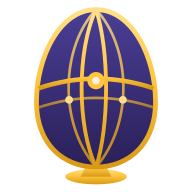
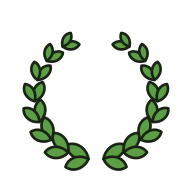
Add files via upload

diff --git a/index.html b/index.html
@@ -1,4 +1,3 @@
-
 <!DOCTYPE html>
 <html lang="en">
 <head>
@@ -18,15 +17,26 @@
   --indigo:#171233; --pit:#100C26; --panel:#1F1941; --panel2:#28214F;
   --yolk:#FFC53D; --yolk-deep:#E8A916; --coral:#FF6B5E; --mint:#7FE8C3;
   --cream:#FFF3DC; --cream-dim:#CFC5AC; --ink:#2B2140; --ink-soft:#5A4E78;
+  --line:#2E2660; --line2:#3A3170; --dash:#322A63;
+  --chrome:rgba(16,12,38,.88);
+  --glow1:#2A2058; --glow2:rgba(255,107,94,.10);
   --mono:ui-monospace,'SF Mono',Menlo,Consolas,monospace;
+}
+html[data-theme="light"]{
+  --indigo:#F4ECD9; --pit:#EDE3CC; --panel:#FDF8EC; --panel2:#F1E7CF;
+  --yolk:#C98A12; --yolk-deep:#A96F05; --coral:#D9503F; --mint:#2E8F63;
+  --cream:#332A20; --cream-dim:#8A7C63; --ink:#F6EFDF; --ink-soft:#C9B99B;
+  --line:#DDD0B2; --line2:#CBBC98; --dash:#D8CAA8;
+  --chrome:rgba(244,236,217,.9);
+  --glow1:#FFF7E2; --glow2:rgba(201,138,18,.08);
 }
 *{box-sizing:border-box;margin:0;padding:0}
 html{background:var(--pit)}
 body{
   font-family:'Outfit',system-ui,sans-serif;color:var(--cream);
   background:
-    radial-gradient(1200px 500px at 50% -10%, #2A2058 0%, transparent 60%),
-    radial-gradient(700px 380px at 85% 8%, rgba(255,107,94,.10), transparent 65%),
+    radial-gradient(1200px 500px at 50% -10%, var(--glow1) 0%, transparent 60%),
+    radial-gradient(700px 380px at 85% 8%, var(--glow2), transparent 65%),
     var(--indigo);
   min-height:100vh;font-size:16px;line-height:1.45;
 }
@@ -37,37 +47,37 @@ input,select{font-family:inherit;font-size:16px}
 .wrap{max-width:680px;margin:0 auto;padding:0 16px 96px}
 
 /* ---------- top bar ---------- */
-header{position:sticky;top:0;z-index:50;background:rgba(16,12,38,.88);backdrop-filter:blur(10px);border-bottom:1px solid #2E2660}
+header{position:sticky;top:0;z-index:50;background:var(--chrome);backdrop-filter:blur(10px);border-bottom:1px solid var(--line)}
 .bar{max-width:680px;margin:0 auto;display:flex;align-items:center;gap:12px;padding:12px 16px}
-.logo{font-family:'Fraunces',serif;font-weight:800;font-size:1.35rem;letter-spacing:.5px;color:var(--yolk);font-variation-settings:'SOFT' 100,'WONK' 1}
+.logo{display:flex;align-items:center;gap:8px;font-family:'Fraunces',serif;font-weight:800;font-size:1.35rem;letter-spacing:.5px;color:var(--yolk);font-variation-settings:'SOFT' 100,'WONK' 1}
 .logo span{color:var(--cream);font-weight:500;font-style:italic}
 .who{margin-left:auto;font-size:.85rem;color:var(--cream-dim)}
 .who b{color:var(--cream)}
 .linkbtn{background:none;border:none;color:var(--coral);font-size:.8rem;text-decoration:underline;padding:2px 4px}
 
 /* ---------- tabs ---------- */
-nav.tabs{position:fixed;bottom:0;left:0;right:0;z-index:50;display:flex;background:rgba(16,12,38,.94);backdrop-filter:blur(10px);border-top:1px solid #2E2660;padding-bottom:env(safe-area-inset-bottom)}
+nav.tabs{position:fixed;bottom:0;left:0;right:0;z-index:50;display:flex;background:var(--chrome);backdrop-filter:blur(10px);border-top:1px solid var(--line);padding-bottom:env(safe-area-inset-bottom)}
 nav.tabs button{flex:1;background:none;border:none;color:var(--cream-dim);padding:13px 4px 11px;font-size:.85rem;font-weight:600;letter-spacing:.4px;border-top:2px solid transparent}
 nav.tabs button.on{color:var(--yolk);border-top-color:var(--yolk)}
 
 /* ---------- cards / panels ---------- */
-.panel{background:var(--panel);border:1px solid #2E2660;border-radius:14px;padding:16px;margin:14px 0}
+.panel{background:var(--panel);border:1px solid var(--line);border-radius:14px;padding:16px;margin:14px 0}
 .panel h2{font-size:1.25rem;margin-bottom:8px}
 .muted{color:var(--cream-dim);font-size:.88rem}
 .row{display:flex;align-items:center;gap:10px;flex-wrap:wrap}
-.pill{display:inline-block;font-family:var(--mono);font-size:.75rem;padding:3px 10px;border-radius:999px;border:1px solid #3A3170;color:var(--cream-dim)}
+.pill{display:inline-block;font-family:var(--mono);font-size:.75rem;padding:3px 10px;border-radius:999px;border:1px solid var(--line2);color:var(--cream-dim)}
 .pill.live{border-color:var(--coral);color:var(--coral);animation:pulse 1.6s infinite}
 .pill.open{border-color:var(--mint);color:var(--mint)}
 .pill.locked{border-color:var(--yolk);color:var(--yolk)}
 .pill.final{border-color:#6C61A8;color:#9A8FD6}
 @keyframes pulse{0%,100%{opacity:1}50%{opacity:.45}}
-.showrow{display:flex;gap:12px;align-items:center;padding:13px 4px;border-bottom:1px dashed #322A63}
+.showrow{display:flex;gap:12px;align-items:center;padding:13px 4px;border-bottom:1px dashed var(--dash)}
 .showrow:last-child{border-bottom:none}
 .showrow .date{font-family:var(--mono);color:var(--yolk);font-size:.85rem;min-width:74px}
 .showrow .v{flex:1;min-width:0}
 .showrow .v .venue{font-weight:600}
 .showrow .v .loc{font-size:.82rem;color:var(--cream-dim)}
-.showrow button{background:var(--panel2);color:var(--cream);border:1px solid #3A3170;border-radius:10px;padding:8px 12px;font-size:.82rem;font-weight:600}
+.showrow button{background:var(--panel2);color:var(--cream);border:1px solid var(--line2);border-radius:10px;padding:8px 12px;font-size:.82rem;font-weight:600}
 
 /* ---------- the setlist card (signature) ---------- */
 .sheet{position:relative;background:var(--cream);color:var(--ink);border-radius:6px;padding:26px 22px 22px;margin:22px 6px;box-shadow:0 14px 40px rgba(0,0,0,.5), 0 2px 0 rgba(0,0,0,.2);transform:rotate(-.5deg)}
@@ -88,14 +98,14 @@ nav.tabs button.on{color:var(--yolk);border-top-color:var(--yolk)}
 
 /* ---------- leaderboard ---------- */
 .lb{width:100%;border-collapse:collapse}
-.lb td,.lb th{padding:10px 8px;text-align:left;border-bottom:1px dashed #322A63}
+.lb td,.lb th{padding:10px 8px;text-align:left;border-bottom:1px dashed var(--dash)}
 .lb th{font-size:.72rem;text-transform:uppercase;letter-spacing:1px;color:var(--cream-dim);font-weight:600}
 .lb .rank{font-family:var(--mono);color:var(--yolk);width:36px}
 .lb .pts{font-family:var(--mono);text-align:right;font-size:1.05rem}
 .lb tr.me td{background:rgba(255,197,61,.07)}
 
 /* ---------- setlist + results ---------- */
-.songrow{display:flex;gap:10px;padding:7px 2px;border-bottom:1px dashed #2C2459;align-items:baseline}
+.songrow{display:flex;gap:10px;padding:7px 2px;border-bottom:1px dashed var(--dash);align-items:baseline}
 .songrow .pos{font-family:var(--mono);font-size:.72rem;color:var(--cream-dim);min-width:44px}
 .songrow.hitmine{background:linear-gradient(90deg,rgba(255,197,61,.14),transparent);border-radius:6px}
 .songrow.hitmine .name{color:var(--yolk);font-weight:700}
@@ -108,14 +118,14 @@ nav.tabs button.on{color:var(--yolk);border-top-color:var(--yolk)}
 /* ---------- forms / auth / admin ---------- */
 .field{margin:12px 0}
 .field label{display:block;font-size:.8rem;color:var(--cream-dim);margin-bottom:5px;letter-spacing:.4px}
-.field input,.field select{width:100%;background:var(--pit);border:1px solid #3A3170;border-radius:10px;color:var(--cream);padding:11px 12px}
+.field input,.field select{width:100%;background:var(--pit);border:1px solid var(--line2);border-radius:10px;color:var(--cream);padding:11px 12px}
 .btn{background:var(--yolk);color:#221A0A;border:none;border-radius:10px;padding:12px 18px;font-weight:700;font-size:.95rem}
-.btn.ghost{background:var(--panel2);color:var(--cream);border:1px solid #3A3170}
+.btn.ghost{background:var(--panel2);color:var(--cream);border:1px solid var(--line2)}
 .btn.small{padding:7px 12px;font-size:.8rem}
 .btn:disabled{opacity:.5}
 .err{color:var(--coral);font-size:.85rem;margin-top:8px;min-height:1.2em}
 .admin-slot{display:flex;gap:8px;margin:6px 0;flex-wrap:wrap}
-.admin-slot input,.admin-slot select{background:var(--pit);border:1px solid #3A3170;border-radius:8px;color:var(--cream);padding:8px 10px;font-size:.85rem}
+.admin-slot input,.admin-slot select{background:var(--pit);border:1px solid var(--line2);border-radius:8px;color:var(--cream);padding:8px 10px;font-size:.85rem}
 .admin-slot select.k,.admin-slot input.k{flex:1 1 130px;min-width:0}.admin-slot input.p{width:64px;font-family:var(--mono)}
 .grid2{display:grid;grid-template-columns:1fr 1fr;gap:10px}
 
@@ -129,15 +139,16 @@ nav.tabs button.on{color:var(--yolk);border-top-color:var(--yolk)}
 .acc-list{position:absolute;top:100%;left:0;right:0;background:var(--cream);border-radius:0 0 10px 10px;box-shadow:0 12px 28px rgba(0,0,0,.35);z-index:30;max-height:210px;overflow:auto}
 .acc-list div{padding:9px 12px;color:var(--ink);font-size:.92rem;border-bottom:1px solid rgba(43,33,64,.08);cursor:pointer}
 .acc-list div small{color:var(--ink-soft);font-family:var(--mono);float:right}
-.acc-list div:hover,.acc-list div.sel{background:var(--yolk)}
+.acc-list div:hover,.acc-list div.sel{background:var(--yolk);color:#221A0A}
 .hidden{display:none!important}
 </style>
 </head>
 <body>
 
 <header><div class="bar">
-  <div class="logo">Fantasy Eggy</div>
+  <div class="logo"><svg viewBox="0 0 100 100" style="width:28px;height:28px;flex:none"><path d="M0,0 C4.0,-4.3 10.5,-4.3 13.5,0 C10.5,4.3 4.0,4.3 0,0 Z" fill="#5B9E45" stroke="#1A2415" stroke-width="1.4" stroke-linejoin="round" transform="translate(53.9,82.8) rotate(-33)"/><path d="M0,0 C3.8,-4.1 9.9,-4.1 12.7,0 C9.9,4.1 3.8,4.1 0,0 Z" fill="#5B9E45" stroke="#1A2415" stroke-width="1.4" stroke-linejoin="round" transform="translate(53.9,82.8) rotate(19)"/><path d="M0,0 C3.8,-4.1 10.0,-4.1 12.8,0 C10.0,4.1 3.8,4.1 0,0 Z" fill="#5B9E45" stroke="#1A2415" stroke-width="1.4" stroke-linejoin="round" transform="translate(64.5,79.5) rotate(-53)"/><path d="M0,0 C3.6,-3.9 9.4,-3.9 12.1,0 C9.4,3.9 3.6,3.9 0,0 Z" fill="#5B9E45" stroke="#1A2415" stroke-width="1.4" stroke-linejoin="round" transform="translate(64.5,79.5) rotate(-1)"/><path d="M0,0 C3.6,-3.9 9.5,-3.9 12.2,0 C9.5,3.9 3.6,3.9 0,0 Z" fill="#5B9E45" stroke="#1A2415" stroke-width="1.4" stroke-linejoin="round" transform="translate(73.4,72.8) rotate(-73)"/><path d="M0,0 C3.4,-3.7 8.9,-3.7 11.4,0 C8.9,3.7 3.4,3.7 0,0 Z" fill="#5B9E45" stroke="#1A2415" stroke-width="1.4" stroke-linejoin="round" transform="translate(73.4,72.8) rotate(-21)"/><path d="M0,0 C3.4,-3.7 9.0,-3.7 11.5,0 C9.0,3.7 3.4,3.7 0,0 Z" fill="#5B9E45" stroke="#1A2415" stroke-width="1.4" stroke-linejoin="round" transform="translate(79.5,63.5) rotate(-93)"/><path d="M0,0 C3.2,-3.5 8.4,-3.5 10.8,0 C8.4,3.5 3.2,3.5 0,0 Z" fill="#5B9E45" stroke="#1A2415" stroke-width="1.4" stroke-linejoin="round" transform="translate(79.5,63.5) rotate(-41)"/><path d="M0,0 C3.2,-3.5 8.4,-3.5 10.8,0 C8.4,3.5 3.2,3.5 0,0 Z" fill="#5B9E45" stroke="#1A2415" stroke-width="1.4" stroke-linejoin="round" transform="translate(82.0,52.7) rotate(-113)"/><path d="M0,0 C3.0,-3.2 7.9,-3.2 10.2,0 C7.9,3.2 3.0,3.2 0,0 Z" fill="#5B9E45" stroke="#1A2415" stroke-width="1.4" stroke-linejoin="round" transform="translate(82.0,52.7) rotate(-61)"/><path d="M0,0 C3.0,-3.2 7.9,-3.2 10.1,0 C7.9,3.2 3.0,3.2 0,0 Z" fill="#5B9E45" stroke="#1A2415" stroke-width="1.4" stroke-linejoin="round" transform="translate(80.6,41.6) rotate(-133)"/><path d="M0,0 C2.9,-3.0 7.4,-3.0 9.5,0 C7.4,3.0 2.9,3.0 0,0 Z" fill="#5B9E45" stroke="#1A2415" stroke-width="1.4" stroke-linejoin="round" transform="translate(80.6,41.6) rotate(-81)"/><path d="M0,0 C2.8,-3.0 7.4,-3.0 9.4,0 C7.4,3.0 2.8,3.0 0,0 Z" fill="#5B9E45" stroke="#1A2415" stroke-width="1.4" stroke-linejoin="round" transform="translate(75.6,31.7) rotate(-153)"/><path d="M0,0 C2.7,-2.8 6.9,-2.8 8.9,0 C6.9,2.8 2.7,2.8 0,0 Z" fill="#5B9E45" stroke="#1A2415" stroke-width="1.4" stroke-linejoin="round" transform="translate(75.6,31.7) rotate(-101)"/><path d="M0,0 C2.6,-2.8 6.8,-2.8 8.8,0 C6.8,2.8 2.6,2.8 0,0 Z" fill="#5B9E45" stroke="#1A2415" stroke-width="1.4" stroke-linejoin="round" transform="translate(67.4,24.2) rotate(-173)"/><path d="M0,0 C2.5,-2.6 6.4,-2.6 8.2,0 C6.4,2.6 2.5,2.6 0,0 Z" fill="#5B9E45" stroke="#1A2415" stroke-width="1.4" stroke-linejoin="round" transform="translate(67.4,24.2) rotate(-121)"/><path d="M0,0 C4.0,-4.3 10.5,-4.3 13.5,0 C10.5,4.3 4.0,4.3 0,0 Z" fill="#5B9E45" stroke="#1A2415" stroke-width="1.4" stroke-linejoin="round" transform="translate(46.1,82.8) rotate(213)"/><path d="M0,0 C3.8,-4.1 9.9,-4.1 12.7,0 C9.9,4.1 3.8,4.1 0,0 Z" fill="#5B9E45" stroke="#1A2415" stroke-width="1.4" stroke-linejoin="round" transform="translate(46.1,82.8) rotate(161)"/><path d="M0,0 C3.8,-4.1 10.0,-4.1 12.8,0 C10.0,4.1 3.8,4.1 0,0 Z" fill="#5B9E45" stroke="#1A2415" stroke-width="1.4" stroke-linejoin="round" transform="translate(35.5,79.5) rotate(233)"/><path d="M0,0 C3.6,-3.9 9.4,-3.9 12.1,0 C9.4,3.9 3.6,3.9 0,0 Z" fill="#5B9E45" stroke="#1A2415" stroke-width="1.4" stroke-linejoin="round" transform="translate(35.5,79.5) rotate(181)"/><path d="M0,0 C3.6,-3.9 9.5,-3.9 12.2,0 C9.5,3.9 3.6,3.9 0,0 Z" fill="#5B9E45" stroke="#1A2415" stroke-width="1.4" stroke-linejoin="round" transform="translate(26.6,72.8) rotate(253)"/><path d="M0,0 C3.4,-3.7 8.9,-3.7 11.4,0 C8.9,3.7 3.4,3.7 0,0 Z" fill="#5B9E45" stroke="#1A2415" stroke-width="1.4" stroke-linejoin="round" transform="translate(26.6,72.8) rotate(201)"/><path d="M0,0 C3.4,-3.7 9.0,-3.7 11.5,0 C9.0,3.7 3.4,3.7 0,0 Z" fill="#5B9E45" stroke="#1A2415" stroke-width="1.4" stroke-linejoin="round" transform="translate(20.5,63.5) rotate(273)"/><path d="M0,0 C3.2,-3.5 8.4,-3.5 10.8,0 C8.4,3.5 3.2,3.5 0,0 Z" fill="#5B9E45" stroke="#1A2415" stroke-width="1.4" stroke-linejoin="round" transform="translate(20.5,63.5) rotate(221)"/><path d="M0,0 C3.2,-3.5 8.4,-3.5 10.8,0 C8.4,3.5 3.2,3.5 0,0 Z" fill="#5B9E45" stroke="#1A2415" stroke-width="1.4" stroke-linejoin="round" transform="translate(18.0,52.7) rotate(293)"/><path d="M0,0 C3.0,-3.2 7.9,-3.2 10.2,0 C7.9,3.2 3.0,3.2 0,0 Z" fill="#5B9E45" stroke="#1A2415" stroke-width="1.4" stroke-linejoin="round" transform="translate(18.0,52.7) rotate(241)"/><path d="M0,0 C3.0,-3.2 7.9,-3.2 10.1,0 C7.9,3.2 3.0,3.2 0,0 Z" fill="#5B9E45" stroke="#1A2415" stroke-width="1.4" stroke-linejoin="round" transform="translate(19.4,41.6) rotate(313)"/><path d="M0,0 C2.9,-3.0 7.4,-3.0 9.5,0 C7.4,3.0 2.9,3.0 0,0 Z" fill="#5B9E45" stroke="#1A2415" stroke-width="1.4" stroke-linejoin="round" transform="translate(19.4,41.6) rotate(261)"/><path d="M0,0 C2.8,-3.0 7.4,-3.0 9.4,0 C7.4,3.0 2.8,3.0 0,0 Z" fill="#5B9E45" stroke="#1A2415" stroke-width="1.4" stroke-linejoin="round" transform="translate(24.4,31.7) rotate(333)"/><path d="M0,0 C2.7,-2.8 6.9,-2.8 8.9,0 C6.9,2.8 2.7,2.8 0,0 Z" fill="#5B9E45" stroke="#1A2415" stroke-width="1.4" stroke-linejoin="round" transform="translate(24.4,31.7) rotate(281)"/><path d="M0,0 C2.6,-2.8 6.8,-2.8 8.8,0 C6.8,2.8 2.6,2.8 0,0 Z" fill="#5B9E45" stroke="#1A2415" stroke-width="1.4" stroke-linejoin="round" transform="translate(32.6,24.2) rotate(353)"/><path d="M0,0 C2.5,-2.6 6.4,-2.6 8.2,0 C6.4,2.6 2.5,2.6 0,0 Z" fill="#5B9E45" stroke="#1A2415" stroke-width="1.4" stroke-linejoin="round" transform="translate(32.6,24.2) rotate(301)"/></svg>Fantasy Eggy</div>
   <div class="who" id="whoami"></div>
+  <button class="linkbtn" id="themeBtn" onclick="toggleTheme()" style="text-decoration:none;font-size:1.05rem" title="light/dark">☀️</button>
 </div></header>
 
 <div id="toasts"></div>
@@ -151,14 +162,34 @@ nav.tabs button.on{color:var(--yolk);border-top-color:var(--yolk)}
 
 <script>
 /* =================== CONFIG — EDIT THESE =================== */
-const SUPABASE_URL  = "https://zdfhglvjxquvkjyvophz.supabase.co";
-const SUPABASE_ANON = "sb_publishable_qN1goR6-Ss3cErnJJIJdKw_xr5nrFuo";
+const SUPABASE_URL  = "https://YOUR-PROJECT-REF.supabase.co";
+const SUPABASE_ANON = "YOUR-ANON-PUBLIC-KEY";
 /* =========================================================== */
 
 const db = supabase.createClient(SUPABASE_URL, SUPABASE_ANON);
 const FN_URL = SUPABASE_URL + "/functions/v1/carton-sync";
 const $ = (s, el=document) => el.querySelector(s);
 const esc = s => String(s ?? "").replace(/[&<>"']/g, c => ({'&':'&amp;','<':'&lt;','>':'&gt;','"':'&quot;',"'":'&#39;'}[c]));
+
+// theme: 'auto' follows the phone live; 'light'/'dark' are manual overrides
+const sysLight = matchMedia("(prefers-color-scheme: light)");
+let themeMode = localStorage.getItem("ft_theme") || "auto";
+function applyTheme(){
+  const eff = themeMode === "auto" ? (sysLight.matches ? "light" : "dark") : themeMode;
+  document.documentElement.dataset.theme = eff;
+  const b = $("#themeBtn");
+  if (b) b.textContent = themeMode === "auto" ? "\u{1F317}" : (themeMode === "light" ? "\u2600\uFE0F" : "\u{1F319}");
+  if (b) b.title = "theme: " + themeMode + (themeMode === "auto" ? " (follows your phone)" : "");
+  const m = document.querySelector('meta[name="theme-color"]');
+  if (m) m.content = eff === "light" ? "#F4ECD9" : "#171233";
+}
+function toggleTheme(){
+  themeMode = { auto: "light", light: "dark", dark: "auto" }[themeMode] || "auto";
+  localStorage.setItem("ft_theme", themeMode);
+  applyTheme();
+}
+sysLight.addEventListener("change", () => { if (themeMode === "auto") applyTheme(); });
+applyTheme();
 
 let session = JSON.parse(localStorage.getItem("ft_session") || "null");
 let tab = "shows", currentShow = null, songList = [], cfg = null, timers = [];
@@ -339,6 +370,21 @@ async function renderPickSheet(show){
       <span class="pts">${s.pts} pt${s.pts===1?"":"s"}</span>
     </div>`;
   const structured = slots.filter(s=>!s.flat), flats = slots.filter(s=>s.flat);
+  // pre-scoring pick board: cutoff has passed, picks are public, but no scores yet
+  let pickBoard = "";
+  if (!(scores||[]).length && (picks||[]).length){
+    const slotOrder = slotDefs().map(sl => sl.key);
+    const slotLabel = Object.fromEntries(slotDefs().map(sl => [sl.key, sl.label]));
+    const byName = {};
+    for (const p of picks) (byName[p.player_name] ??= []).push(p);
+    pickBoard = `<h2 style="margin:18px 4px 4px">The picks are in</h2>` +
+      Object.entries(byName).sort((a,b) => a[0].localeCompare(b[0])).map(([name, pp]) => `
+        <div class="panel" style="padding:12px"><div class="row"><b>${esc(name)}</b></div>
+          ${pp.sort((a,b) => slotOrder.indexOf(a.slot) - slotOrder.indexOf(b.slot)).map(p => `
+            <div class="pickres"><span class="sl">${esc(slotLabel[p.slot] || p.slot)}</span>
+              <span>${esc(p.songname)}</span></div>`).join("")}
+        </div>`).join("");
+  }
   $("#main").innerHTML = `
     <p style="margin-top:14px"><button class="btn ghost small" onclick="renderShows()">← shows</button></p>
     <div class="sheet">
@@ -428,6 +474,21 @@ async function renderShowDetail(show){
           <span class="pt">${b.points>0?"+"+b.points:"·"} <small class="muted">${esc(b.reason)}</small></span>
         </div>`).join("")}
     </div>`).join("");
+  // pre-scoring pick board: cutoff has passed, picks are public, but no scores yet
+  let pickBoard = "";
+  if (!(scores||[]).length && (picks||[]).length){
+    const slotOrder = slotDefs().map(sl => sl.key);
+    const slotLabel = Object.fromEntries(slotDefs().map(sl => [sl.key, sl.label]));
+    const byName = {};
+    for (const p of picks) (byName[p.player_name] ??= []).push(p);
+    pickBoard = `<h2 style="margin:18px 4px 4px">The picks are in</h2>` +
+      Object.entries(byName).sort((a,b) => a[0].localeCompare(b[0])).map(([name, pp]) => `
+        <div class="panel" style="padding:12px"><div class="row"><b>${esc(name)}</b></div>
+          ${pp.sort((a,b) => slotOrder.indexOf(a.slot) - slotOrder.indexOf(b.slot)).map(p => `
+            <div class="pickres"><span class="sl">${esc(slotLabel[p.slot] || p.slot)}</span>
+              <span>${esc(p.songname)}</span></div>`).join("")}
+        </div>`).join("");
+  }
   $("#main").innerHTML = `
     <p style="margin-top:14px"><button class="btn ghost small" onclick="renderShows()">← shows</button>
       <span class="pill ${showState(show)==='live'?'live':'final'}">${showState(show)==='final'?'complete':showState(show)}</span></p>
@@ -436,8 +497,9 @@ async function renderShowDetail(show){
       <p class="muted">${scores[0].points} points</p></div>` : ""}
     <div class="panel"><h2>${esc(show.venue||"")} <span class="muted" style="font-size:.85rem">${fmtDate(show.showdate)}</span></h2>
       ${setHtml || '<p class="muted">No setlist yet. It shows up here song-by-song once the tapers get typing.</p>'}</div>
+    ${pickBoard}
     <h2 style="margin:18px 4px 4px">Scores</h2>
-    ${scoreHtml || '<p class="muted" style="margin:8px 4px">No scores yet.</p>'}`;
+    ${scoreHtml || '<p class="muted" style="margin:8px 4px">No scores yet — they appear with the first song.</p>'}`;
 }
 
 /* ---------------- leaderboard ---------------- */
@@ -496,7 +558,7 @@ async function renderAdmin(){
       ${(shows||[]).map(s => `<div class="showrow">
         <div class="date">${fmtDate(s.showdate)}</div>
         <div class="v"><div class="venue">${esc(s.venue||"TBA")}</div>
-          <div class="loc"><input type="datetime-local" data-show="${s.id}" value="${s.cutoff_at ? new Date(new Date(s.cutoff_at).getTime()-new Date().getTimezoneOffset()*6e4).toISOString().slice(0,16) : ""}" style="background:var(--pit);border:1px solid #3A3170;color:var(--cream);border-radius:8px;padding:6px 8px;font-size:.8rem"></div></div>
+          <div class="loc"><input type="datetime-local" data-show="${s.id}" value="${s.cutoff_at ? new Date(new Date(s.cutoff_at).getTime()-new Date().getTimezoneOffset()*6e4).toISOString().slice(0,16) : ""}" style="background:var(--pit);border:1px solid var(--line2);color:var(--cream);border-radius:8px;padding:6px 8px;font-size:.8rem"></div></div>
         <button onclick="saveCutoff(${s.id}, this)">Set</button>
         ${s.status!=='final' && s.cutoff_at && new Date(s.cutoff_at) < new Date() ? '<button onclick="finalizeShow('+s.id+', this)" style="border-color:var(--coral);color:var(--coral)">Finalize</button>' : ''}
       </div>`).join("") || '<p class="muted">No shows — sync first.</p>'}